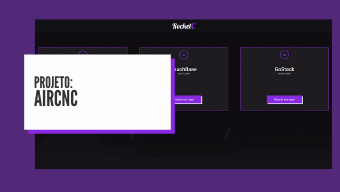
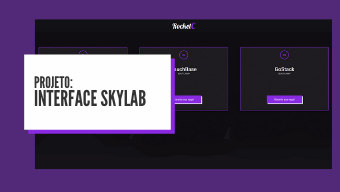
LAST COMMIT

Changed region(s): [[0.0882, 0.4688, 0.4412, 0.5625]]

diff --git a/src/pages/Projects/index.js b/src/pages/Projects/index.js
@@ -15,6 +15,7 @@ import ThumbLR from '../../assets/images/ThumbLR.png';
 import ThumbPH from '../../assets/images/ThumbPH.png';
 import ThumbTEMPLATE from '../../assets/images/ThumbTEMPLATE.png';
 import ThumbSKLB from '../../assets/images/ThumbSKLB.png';
+import ThumbLRGITMOBILE from '../../assets/images/ThumbLRGITMOBILE.png';
 
 export default function Projects() {
   const reactIcon = <FaReact size={26} color="#42C4EC" />;
@@ -42,54 +43,62 @@ export default function Projects() {
           Description="Projeto desenvolvido durante a semana OmniStack 09."
         />
         <ProjectContainer
-          LinkDirection="/"
+          LinkDirection="projetos/SKYLAB"
           Icon1={reactIcon}
           Image={ThumbSKLB}
           Title="Clone SKYLAB"
           Description="Projeto desenvolvido para estuar ReactJs."
         />
         <ProjectContainer
-          LinkDirection="/"
+          LinkDirection="projetos/NUBANK"
           Icon1={reactIcon}
           Image={ThumbNUBANK}
           Title="Clone interface NUBANK"
           Description="Projeto desenvolvido para estuar React-Native."
         />
         <ProjectContainer
-          LinkDirection="/"
+          LinkDirection="projetos/ACADEMIA"
           Icon1={htmlIcon}
           Image={ThumbACAD}
           Title="Controle Academia"
           Description="Projeto desenvolvido durante o curso launchBase."
         />
         <ProjectContainer
-          LinkDirection="/"
+          LinkDirection="projetos/AIRBNB"
           Icon1={htmlIcon}
           Image={ThumbAIRBNB}
           Title="Clone Airbnb"
           Description="Projeto desenvolvido para estudar Html."
         />
         <ProjectContainer
-          LinkDirection="/"
+          LinkDirection="projetos/PH"
           Icon1={reactIcon}
           Icon2={nodeIcon}
           Image={ThumbPH}
-          Title="Clone SKYLAB"
+          Title="Clone Product Hunt"
           Description="Projeto desenvolvido durante o curso básico RocketSeat."
         />
         <ProjectContainer
-          LinkDirection="/"
+          LinkDirection="projetos/TEMPLATEAPP"
+          Icon1={reactIcon}
+          Image={ThumbTEMPLATE}
+          Title="App Template"
+          Description="Projeto desenvolvido para estuar React-Native."
+        />
+
+        <ProjectContainer
+          LinkDirection="projetos/LRGIT"
           Icon1={reactIcon}
           Image={ThumbLR}
           Title="Listar Repositórios"
           Description="Projeto desenvolvido durante o curso GoStack."
         />
         <ProjectContainer
-          LinkDirection="/"
+          LinkDirection="projetos/LRGITMOBILE"
           Icon1={reactIcon}
-          Image={ThumbTEMPLATE}
-          Title="App Template"
-          Description="Projeto desenvolvido para estuar React-Native."
+          Image={ThumbLRGITMOBILE}
+          Title="Repositórios Favoritos"
+          Description="Projeto desenvolvido durante o curso GoStack."
         />
       </Container>
     </>

diff --git a/src/pages/ProjectsPages/ACADEMIA/index.js b/src/pages/ProjectsPages/ACADEMIA/index.js
@@ -1,0 +1,36 @@
+import React from 'react';
+
+import { ImgsProj } from '../../../styles/stylesPage';
+
+import Pages from '../../../components/Pages/index';
+import Footer from '../../../components/Footer/index';
+import ImagesProject from '../../../components/ImagesProject/index';
+
+import Img1 from '../../../assets/imagesInPages/ACADEMIA/Instrutores.png';
+import Img2 from '../../../assets/imagesInPages/ACADEMIA/VerInstrutor.png';
+import Img3 from '../../../assets/imagesInPages/ACADEMIA/EditarInstrutor.png';
+import Img4 from '../../../assets/imagesInPages/ACADEMIA/NovoInstrutor.png';
+import Img5 from '../../../assets/imagesInPages/ACADEMIA/NovoAluno.png';
+import Img6 from '../../../assets/imagesInPages/ACADEMIA/VerAluno.png';
+
+export default function ACADEMIA() {
+  return (
+    <>
+      <Pages
+        ProjectName="Controle Academia"
+        ProjectDescription="Projeto foi construido durante o curso LaunchBase. A aplicação realiza um controle de uma academia, cadastrando novos intrutores e clientes, possibilitando fazer a edição e remoção dos mesmos."
+        ProjectTechs="Para seu desenvolvimento foi utilizado um banco de dados local, salvando os arquivos em .JSON na raiz do projeto. O sistema de componets foi feito utilizando o Nunjucks, que sem dúvidas é amelhor opção para isso no desenvolvimento HTML."
+        RepositoryLink="https://github.com/ViniciusCrisol/ControleAcademia"
+      />
+      <ImgsProj>
+        <ImagesProject Image={Img1} />
+        <ImagesProject Image={Img2} />
+        <ImagesProject Image={Img3} />
+        <ImagesProject Image={Img4} />
+        <ImagesProject Image={Img5} />
+        <ImagesProject Image={Img6} />
+      </ImgsProj>
+      <Footer />
+    </>
+  );
+}

diff --git a/src/routes.js b/src/routes.js
@@ -7,6 +7,14 @@ import Projects from './pages/Projects';
 
 import BTH from './pages/ProjectsPages/BTH';
 import AIRCNC from './pages/ProjectsPages/AIRCNC';
+import SKYLAB from './pages/ProjectsPages/SKYLAB';
+import NUBANK from './pages/ProjectsPages/NUBANK';
+import ACADEMIA from './pages/ProjectsPages/ACADEMIA';
+import AIRBNB from './pages/ProjectsPages/AIRBNB';
+import PH from './pages/ProjectsPages/PH';
+import TEMPLATEAPP from './pages/ProjectsPages/TEMPLATEAPP';
+import LRGIT from './pages/ProjectsPages/LRGIT';
+import LRGITMOBILE from './pages/ProjectsPages/LRGITMOBILE';
 
 export default function Routes() {
   return (
@@ -17,6 +25,14 @@ export default function Routes() {
 
       <Route path="/projetos/BTH" exact component={BTH} />
       <Route path="/projetos/AIRCNC" exact component={AIRCNC} />
+      <Route path="/projetos/SKYLAB" exact component={SKYLAB} />
+      <Route path="/projetos/NUBANK" exact component={NUBANK} />
+      <Route path="/projetos/ACADEMIA" exact component={ACADEMIA} />
+      <Route path="/projetos/AIRBNB" exact component={AIRBNB} />
+      <Route path="/projetos/PH" exact component={PH} />
+      <Route path="/projetos/TEMPLATEAPP" exact component={TEMPLATEAPP} />
+      <Route path="/projetos/LRGIT" exact component={LRGIT} />
+      <Route path="/projetos/LRGITMOBILE" exact component={LRGITMOBILE} />
     </Switch>
   );
 }

diff --git a/src/pages/ProjectsPages/AIRBNB/index.js b/src/pages/ProjectsPages/AIRBNB/index.js
@@ -1,0 +1,32 @@
+import React from 'react';
+
+import { ImgsProj } from '../../../styles/stylesPage';
+
+import Pages from '../../../components/Pages/index';
+import Footer from '../../../components/Footer/index';
+import ImagesProject from '../../../components/ImagesProject/index';
+
+import Img1 from '../../../assets/imagesInPages/AIRBNB/1.jpg';
+import Img2 from '../../../assets/imagesInPages/AIRBNB/2.png';
+import Img3 from '../../../assets/imagesInPages/AIRBNB/3.jpg';
+import Img4 from '../../../assets/imagesInPages/AIRBNB/4.png';
+
+export default function AIRBNB() {
+  return (
+    <>
+      <Pages
+        ProjectName="Clone interface AIRBNB"
+        ProjectDescription="A página foi desenvolvida em HTML/CSS com o objetivo de estudar interfaces. O site não possui responsividade, já que o intuito do estudo era compreender melhor a interação de elementos na tela. O resultado final foi muito satisfatório, levando em conta que o objetivo de resporduzir a interface do site original foi concluído com êxito."
+        disableDesc={true}
+        RepositoryLink="https://github.com/ViniciusCrisol/CloneAirbnb"
+      />
+      <ImgsProj>
+        <ImagesProject Image={Img1} />
+        <ImagesProject Image={Img2} />
+        <ImagesProject Image={Img3} />
+        <ImagesProject Image={Img4} />
+      </ImgsProj>
+      <Footer />
+    </>
+  );
+}

diff --git a/src/pages/ProjectsPages/PH/index.js b/src/pages/ProjectsPages/PH/index.js
@@ -1,0 +1,30 @@
+import React from 'react';
+
+import { ImgsProj } from '../../../styles/stylesPage';
+
+import Pages from '../../../components/Pages/index';
+import Footer from '../../../components/Footer/index';
+import ImagesProject from '../../../components/ImagesProject/index';
+
+import Img1 from '../../../assets/imagesInPages/PH/Produto.png';
+import Img2 from '../../../assets/imagesInPages/PH/Inserir-Dados.png';
+import Img3 from '../../../assets/imagesInPages/PH/Produto.png';
+
+export default function PH() {
+  return (
+    <>
+      <Pages
+        ProjectName="Clone Product Hunt"
+        ProjectDescription="Clone do site ProductHunt, idealizado no curso básico RocketSeat. Desenvolvido com Node e React, a aplicação possui um sistema em que cadastra produtos no banco de dados e automaticamente exibe os dados no front-end."
+        ProjectTechs="A construção do banco de dados foi feita com o MongoDB, já que a aplicação não necessita de tabelas relacionadas e exige uma performance alta do back-end."
+        RepositoryLink="https://github.com/ViniciusCrisol/ProductHuntClone"
+      />
+      <ImgsProj>
+        <ImagesProject Image={Img1} />
+        <ImagesProject Image={Img2} />
+        <ImagesProject Image={Img3} />
+      </ImgsProj>
+      <Footer />
+    </>
+  );
+}

diff --git a/src/pages/ProjectsPages/TEMPLATEAPP/index.js b/src/pages/ProjectsPages/TEMPLATEAPP/index.js
@@ -1,0 +1,30 @@
+import React from 'react';
+
+import { ImagsProjCell } from '../../../styles/stylesPage';
+
+import Pages from '../../../components/Pages/index';
+import Footer from '../../../components/Footer/index';
+import ImagesProjectCel from '../../../components/ImagesProjectCel/index';
+
+import Img1 from '../../../assets/imagesInPages/TEMPLATEAPP/1.jpg';
+import Img2 from '../../../assets/imagesInPages/TEMPLATEAPP/2.jpg';
+import Img3 from '../../../assets/imagesInPages/TEMPLATEAPP/3.jpg';
+
+export default function TEMPLATEAPP() {
+  return (
+    <>
+      <Pages
+        ProjectName="Template APP"
+        ProjectDescription="Template de um aplicativo. Desenvolvido com objetivo de estudar React-Native. Projeto realizado no dia 04/04/2020.Aplicação idealizada em React-Native, com auxílio do Expo-cli."
+        disableDesc={true}
+        RepositoryLink="https://github.com/ViniciusCrisol/TemplateApp"
+      />
+      <ImagsProjCell>
+        <ImagesProjectCel Image={Img1} />
+        <ImagesProjectCel Image={Img2} />
+        <ImagesProjectCel Image={Img3} />
+      </ImagsProjCell>
+      <Footer />
+    </>
+  );
+}

diff --git a/src/pages/ProjectsPages/LRGIT/index.js b/src/pages/ProjectsPages/LRGIT/index.js
@@ -1,0 +1,28 @@
+import React from 'react';
+
+import { ImgsProj } from '../../../styles/stylesPage';
+
+import Pages from '../../../components/Pages/index';
+import Footer from '../../../components/Footer/index';
+import ImagesProject from '../../../components/ImagesProject/index';
+
+import Img1 from '../../../assets/imagesInPages/LRGIT/1.png';
+import Img2 from '../../../assets/imagesInPages/LRGIT/2.png';
+
+export default function LRGIT() {
+  return (
+    <>
+      <Pages
+        ProjectName="Repositórios do GitHub"
+        ProjectDescription="A aplicação busca repositórios do github conforme o nome inserido e lista as buscas. Possibilitando que o usuário acesse o repositório e tenha mais informações."
+        ProjectTechs="O site foi desenvolvido em react e conta com a API do github para pesquisa de repositórios."
+        RepositoryLink="https://github.com/ViniciusCrisol/ListarRepositorios"
+      />
+      <ImgsProj>
+        <ImagesProject Image={Img1} />
+        <ImagesProject Image={Img2} />
+      </ImgsProj>
+      <Footer />
+    </>
+  );
+}

diff --git a/src/pages/ProjectsPages/SKYLAB/index.js b/src/pages/ProjectsPages/SKYLAB/index.js
@@ -1,0 +1,30 @@
+import React from 'react';
+
+import { ImgsProj } from '../../../styles/stylesPage';
+
+import Pages from '../../../components/Pages/index';
+import Footer from '../../../components/Footer/index';
+import ImagesProject from '../../../components/ImagesProject/index';
+
+import Img1 from '../../../assets/imagesInPages/SKYLAB/Index.png';
+import Img2 from '../../../assets/imagesInPages/SKYLAB/Cadastro.png';
+import Img3 from '../../../assets/imagesInPages/SKYLAB/Login.png';
+
+export default function SKYLAB() {
+  return (
+    <>
+      <Pages
+        ProjectName="Clone SKYLAB"
+        ProjectDescription="Clone do site SkyLab da RocketSeat. Desenvolvido em React, com o objetivo de estudar a criação de sites responsivos com o framework."
+        disableDesc={true}
+        RepositoryLink="https://github.com/ViniciusCrisol/Clone-SkyLab"
+      />
+      <ImgsProj>
+        <ImagesProject Image={Img1} />
+        <ImagesProject Image={Img2} />
+        <ImagesProject Image={Img3} />
+      </ImgsProj>
+      <Footer />
+    </>
+  );
+}

diff --git a/src/pages/ProjectsPages/LRGITMOBILE/index.js b/src/pages/ProjectsPages/LRGITMOBILE/index.js
@@ -1,0 +1,28 @@
+import React from 'react';
+
+import { ImagsProjCell } from '../../../styles/stylesPage';
+
+import Pages from '../../../components/Pages/index';
+import Footer from '../../../components/Footer/index';
+import ImagesProjectCel from '../../../components/ImagesProjectCel/index';
+
+import Img1 from '../../../assets/imagesInPages/LRGITMOBILE/1.png';
+import Img2 from '../../../assets/imagesInPages/LRGITMOBILE/2.png';
+
+export default function LRGITMOBILE() {
+  return (
+    <>
+      <Pages
+        ProjectName="Respositórios com estrela"
+        ProjectDescription="O aplicativo foi desenvolvido durante o módulo 06 di cursi GoStack da RocketSeat, nele o usuário adiciona perfis do github e visualisa os repositórios marcados com estrela."
+        disableDesc={true}
+        RepositoryLink="https://github.com/ViniciusCrisol/ListarRepositoriosMobile"
+      />
+      <ImagsProjCell>
+        <ImagesProjectCel Image={Img1} />
+        <ImagesProjectCel Image={Img2} />
+      </ImagsProjCell>
+      <Footer />
+    </>
+  );
+}

diff --git a/src/pages/ProjectsPages/NUBANK/index.js b/src/pages/ProjectsPages/NUBANK/index.js
@@ -1,0 +1,28 @@
+import React from 'react';
+
+import { ImagsProjCell } from '../../../styles/stylesPage';
+
+import Pages from '../../../components/Pages/index';
+import Footer from '../../../components/Footer/index';
+import ImagesProjectCel from '../../../components/ImagesProjectCel/index';
+
+import Img1 from '../../../assets/imagesInPages/NUBANK/Inicio.jpg';
+import Img2 from '../../../assets/imagesInPages/NUBANK/Menu.jpg';
+
+export default function NUBANK() {
+  return (
+    <>
+      <Pages
+        ProjectName="Clone APP Nubank"
+        ProjectDescription="O projeto foi desenvolvido com o objetivo de estudar animações em interface mobile nativa."
+        disableDesc={true}
+        RepositoryLink="https://github.com/ViniciusCrisol/CloneInterfaceNubankMobile"
+      />
+      <ImagsProjCell>
+        <ImagesProjectCel Image={Img1} />
+        <ImagesProjectCel Image={Img2} />
+      </ImagsProjCell>
+      <Footer />
+    </>
+  );
+}

diff --git a/src/pages/ProjectsPages/AIRCNC/index.js b/src/pages/ProjectsPages/AIRCNC/index.js
@@ -1,6 +1,6 @@
 import React from 'react';
 
-import { ImgsProj, ImagsProjCell } from './styles';
+import { ImgsProj, ImagsProjCell } from '../../../styles/stylesPage';
 
 import Pages from '../../../components/Pages/index';
 import Footer from '../../../components/Footer/index';
@@ -35,9 +35,9 @@ export default function AIRCNC() {
       <ImagsProjCell>
         <ImagesProjectCel Image={Img5} />
         <ImagesProjectCel Image={Img6} />
-        <ImagesProjectCel Image={Img5} />
-        <ImagesProjectCel Image={Img6} />
-        <ImagesProjectCel Image={Img5} />
+        <ImagesProjectCel Image={Img7} />
+        <ImagesProjectCel Image={Img8} />
+        <ImagesProjectCel Image={Img9} />
       </ImagsProjCell>
       <Footer />
     </>

diff --git a/src/components/Pages/index.js b/src/components/Pages/index.js
@@ -7,6 +7,7 @@ export default function Pages({
   ProjectDescription,
   ProjectTechs,
   RepositoryLink,
+  disableDesc,
   Image1,
   Image2,
   Image3,
@@ -27,7 +28,7 @@ export default function Pages({
         <DescProjText>
           <h1>Descrição do projeto</h1>
           <p>{ProjectDescription}</p>
-          <h1>Descrição técnica</h1>
+          <h1>{disableDesc ? '' : 'Descrição técnica'}</h1>
           <p>{ProjectTechs}</p>
         </DescProjText>
       </DescProj>
